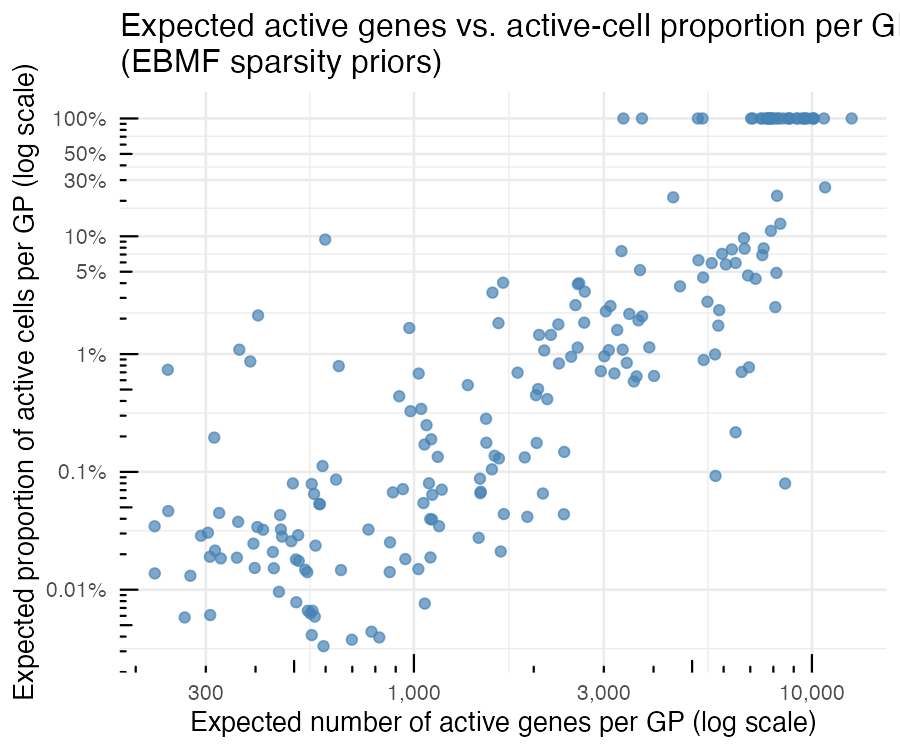
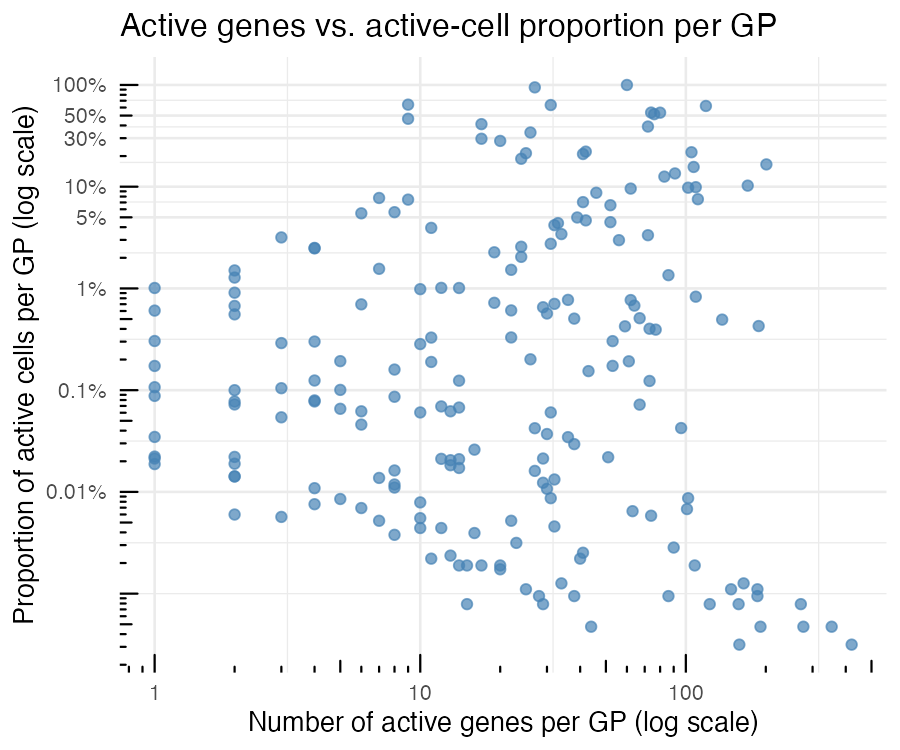
Fig S1E: use empirical active-gene/cell counts (match Figure 2)
Replace the EBMF sparsity-prior version of S1E with the same hard-threshold
definitions as Figure 2: number of active genes per GP (|per-GP-normalized
score| > 0.25) on x, proportion of active cells per GP (normalized loading >
0.1) on y, over non-thymocyte cells. Updates script/FigureS1.R, the caption,
the S1E asset/PDF, and rebuilds docs/FigureS1.html.

diff --git a/docs/FigureS1.html b/docs/FigureS1.html
@@ -384,7 +384,7 @@ aria-hidden="true"></span> </a>
 <div class="tab-content">
 <div id="summary" class="tab-pane fade in active">
 <p>
-<strong>Last updated:</strong> 2026-07-13
+<strong>Last updated:</strong> 2026-07-16
 </p>
 <p>
 <strong>Checks:</strong> <span
@@ -519,15 +519,15 @@ project makes it easier to run your code on other machines.</p>
 <div class="panel panel-default">
 <div class="panel-heading">
 <p class="panel-title">
-<a data-toggle="collapse" data-parent="#workflowr-checks" href="#strongRepositoryversionstrongahrefhttpsgithubcomAgueroZZimmgenTGPanalysistreecba8dd4fdccf9c48cd1ea609b18c9dc5d01e0c04targetblankcba8dd4a">
+<a data-toggle="collapse" data-parent="#workflowr-checks" href="#strongRepositoryversionstrongahrefhttpsgithubcomAgueroZZimmgenTGPanalysistreeb19749995d4ab13fc8dcd3502c93428b47802a9atargetblankb197499a">
 <span class="glyphicon glyphicon-ok text-success"
 aria-hidden="true"></span> <strong>Repository version:</strong>
-<a href="https://github.com/AgueroZZ/immgenT-GP-analysis/tree/cba8dd4fdccf9c48cd1ea609b18c9dc5d01e0c04" target="_blank">cba8dd4</a>
+<a href="https://github.com/AgueroZZ/immgenT-GP-analysis/tree/b19749995d4ab13fc8dcd3502c93428b47802a9a" target="_blank">b197499</a>
 </a>
 </p>
 </div>
 <div
[2 lines of base64/hex data omitted]
 class="panel-collapse collapse">
 <div class="panel-body">
 <p>
@@ -537,7 +537,7 @@ reproducibility.
 </p>
 <p>
 The results in this page were generated with repository version
-<a href="https://github.com/AgueroZZ/immgenT-GP-analysis/tree/cba8dd4fdccf9c48cd1ea609b18c9dc5d01e0c04" target="_blank">cba8dd4</a>.
+<a href="https://github.com/AgueroZZ/immgenT-GP-analysis/tree/b19749995d4ab13fc8dcd3502c93428b47802a9a" target="_blank">b197499</a>.
 See the <em>Past versions</em> tab to see a history of the changes made
 to the R Markdown and HTML files.
 </p>
@@ -559,6 +559,7 @@ Ignored files:
     Ignored:    analysis/assets/.DS_Store
     Ignored:    code/.DS_Store
     Ignored:    data
+    Ignored:    experiments/.DS_Store
     Ignored:    figures/.DS_Store
     Ignored:    figures/final-selected/.DS_Store
     Ignored:    figures/final-selected/bits/.DS_Store
@@ -578,28 +579,31 @@ Ignored files:
     Ignored:    figures/generated/Figure 7/
     Ignored:    figures/generated/Figure 8/
     Ignored:    figures/generated/Figure 9/
+    Ignored:    tmp/
 
 Untracked files:
-    Untracked:  analysis/assets/FigureS1/S1E.png
-    Untracked:  code/other/
-    Untracked:  experiments/
-    Untracked:  figures/generated/Figure S1/S1E.pdf
-    Untracked:  plan/
-    Untracked:  script/render_new_panels.R
+    Untracked:  code/other/topic_flashier_20250212.R
+    Untracked:  code/other/topic_wrapper_20250215_alldata_backfit.sh
+    Untracked:  experiments/active_metric_comparison/
+    Untracked:  experiments/figure6b_sparsity_ordered/
+    Untracked:  experiments/gene_umap_gp_space/
+    Untracked:  experiments/protein_threshold_gp_loading_diff/
+    Untracked:  experiments/surface_protein_activation_scatter/
+    Untracked:  log/2026-07-13-surface-protein-activation-scatter.md
+    Untracked:  log/2026-07-15-protein-threshold-gp-loading-diff-tables.md
+    Untracked:  plan/2026-07-13-active-cell-gene-metrics-exploration.md
+    Untracked:  plan/2026-07-13-surface-protein-activation-scatter.md
+    Untracked:  plan/2026-07-13_figure6b_triangular_order_plan.md
+    Untracked:  plan/2026-07-13_figure6b_wide_gp_columns_formal_plan.md
+    Untracked:  plan/2026-07-14_figure6b_heatmap_typography_plan.md
+    Untracked:  plan/2026-07-15-protein-threshold-gp-loading-diff-tables.md
     Untracked:  tables/
-    Untracked:  tmp/
 
 Unstaged changes:
-    Modified:   analysis/Figure1.Rmd
     Modified:   analysis/FigureS1.Rmd
     Modified:   analysis/Methods_FlashierFit.Rmd
-    Modified:   analysis/assets/Figure1/1E.png
-    Modified:   analysis/assets/Figure1/1F.png
-    Modified:   analysis/index.Rmd
-    Modified:   figures/generated/Figure 1/1E.pdf
-    Modified:   figures/generated/Figure 1/1F.pdf
-    Modified:   script/Figure1.R
-    Modified:   script/Figure3.R
+    Modified:   analysis/assets/FigureS1/S1E.png
+    Modified:   figures/generated/Figure S1/S1E.pdf
     Modified:   script/FigureS1.R
 
 </code></pre>
@@ -645,6 +649,42 @@ Message
 </tr>
 </thead>
 <tbody>
+<tr>
+<td>
+Rmd
+</td>
+<td>
+<a href="https://github.com/AgueroZZ/immgenT-GP-analysis/blob/c2b3360b38a0c1dcd0068b24e02311b9db0dbc34/analysis/FigureS1.Rmd" target="_blank">c2b3360</a>
+</td>
+<td>
+Ziang Zhang
+</td>
+<td>
[phone redacted]
+</td>
+<td>
+Use log-scale axes for Fig 1E/1F and add Fig S1E gene-vs-cell sparsity
+scatter
+</td>
+</tr>
+<tr>
+<td>
+html
+</td>
+<td>
+<a href="https://rawcdn.githack.com/AgueroZZ/immgenT-GP-analysis/c2b3360b38a0c1dcd0068b24e02311b9db0dbc34/docs/FigureS1.html" target="_blank">c2b3360</a>
+</td>
+<td>
+Ziang Zhang
+</td>
+<td>
[phone redacted]
+</td>
+<td>
+Use log-scale axes for Fig 1E/1F and add Fig S1E gene-vs-cell sparsity
+scatter
+</td>
+</tr>
 <tr>
 <td>
 html
@@ -844,11 +884,11 @@ itself is produced (a much heavier, cluster-scale computation).</p>
 #        vs. variance-of-per-IGT-mean-loading (y), spleen-standard subset.
 #   S1D  Heatmap of per-IGT mean loading for the 10 highest-variance GPs from
 #        S1C (IGTs with &gt;= 500 spleen-standard cells only).
-#   S1E  Scatter of the EBMF-learned expected NUMBER of active genes (x) vs.
-#        expected proportion of active cells (y) per GP -- from the (1 - pi0)
-#        sparsity parameter of each factor&#39;s point-mass prior (times the total
-#        gene count for the x-axis), not a hard threshold on the fitted
-#        matrices. One dot per GP.
+#   S1E  Scatter of the NUMBER of active genes (x) vs. proportion of active
+#        cells (y) per GP, using the same hard-threshold definitions as Figure 2
+#        (|normalized score| &gt; 0.25 for genes; normalized loading &gt; 0.1 for
+#        cells), over non-thymocyte cells -- not the EBMF sparsity prior. One
+#        dot per GP.
 #
 # Source: S1A/S1B ported from Figure_Saturation.R; S1C/S1D from
 # Figure_batch.R (panels a/b only -- that script&#39;s `plot_gp_loading()`
@@ -1228,23 +1268,22 @@ loading).</p>
 <div id="figs1e" class="section level2">
 <h2>(E) Active-gene vs. active-cell proportion per GP</h2>
 <pre class="r"><code># ============================================================
-# S1E: EBMF sparsity scatter -- expected proportion of active genes (x)
-# vs. expected proportion of active cells (y) per GP, taken directly from
-# each factor&#39;s point-mass prior weight (p = 1 - pi0).
-# (Same quantities as Figure 1&#39;s scatter_e_active_cells_vs_genes panel,
-# re-drawn here in ggplot with log-log axes.)
+# S1E: active-gene vs active-cell scatter per GP, using the SAME hard-threshold
+# definitions as Figure 2 (per-GP-normalized): number of active genes = count of
+# genes with |score| &gt; 0.25 of the GP&#39;s max; proportion of active cells = fraction
+# of cells with loading &gt; 0.1 of the GP&#39;s max. Non-thymocyte cells, matching
+# Figure 2. (Replaces the earlier EBMF-sparsity-prior version.)
 # ============================================================
-load(paste0(data_path, &quot;flashier_snmf_fitted_prior.rda&quot;))
-n_genes  &lt;- nrow(readRDS(paste0(data_path, &quot;F_pm_filtered.rds&quot;)))  # total genes in the factorization
+non_thymo_s1e &lt;- seurat_meta_filtered$cellID[seurat_meta_filtered$annotation_level1 != &quot;thymocyte&quot;]
+L_s1e &lt;- L_pm_filtered[non_thymo_s1e, ]
+L_norm_s1e &lt;- L_s1e / matrix(apply(L_s1e, 2, max), nrow = nrow(L_s1e), ncol = ncol(L_s1e), byrow = TRUE)
+prop_cells &lt;- colSums(L_norm_s1e &gt; 0.1) / nrow(L_norm_s1e)   # proportion of active cells per GP
 
-n_gp     &lt;- length(flashier_snmf_fitted_prior$L_ghat)
-l_pi_vec &lt;- sapply(seq_len(n_gp), function(i) flashier_snmf_fitted_prior$L_ghat[[i]]$pi[1])
-f_pi_vec &lt;- sapply(seq_len(n_gp), function(i) flashier_snmf_fitted_prior$F_ghat[[i]]$pi[1])
-p_cells     &lt;- 1 - l_pi_vec               # expected proportion of active cells per GP
-n_genes_act &lt;- (1 - f_pi_vec) * n_genes   # expected NUMBER of active genes per GP
+F_s1e &lt;- readRDS(paste0(data_path, &quot;F_pm_filtered.rds&quot;))
+F_norm_s1e &lt;- F_s1e / matrix(apply(F_s1e, 2, function(x) max(abs(x))), nrow = nrow(F_s1e), ncol = ncol(F_s1e), byrow = TRUE)
+n_genes_act &lt;- colSums(abs(F_norm_s1e) &gt; 0.25)               # number of active genes per GP
 
-scatter_df_s1e &lt;- data.frame(n_genes = n_genes_act, prop_cells = p_cells)
-
+scatter_df_s1e &lt;- data.frame(n_genes = n_genes_act, prop_cells = prop_cells)
 pct_breaks &lt;- c(0.0001, 0.001, 0.01, 0.05, 0.1, 0.3, 0.5, 1)
 p_S1E &lt;- ggplot(scatter_df_s1e, aes(x = n_genes, y = prop_cells)) +
   geom_point(size = 2, alpha = 0.7, color = &quot;steelblue&quot;) +
@@ -1252,22 +1291,58 @@ p_S1E &lt;- ggplot(scatter_df_s1e, aes(x = n_genes, y = prop_cells)) +
   scale_y_log10(breaks = pct_breaks, labels = function(x) paste0(x * 100, &quot;%&quot;)) +
   annotation_logticks(sides = &quot;bl&quot;) +
   labs(
-    x = &quot;Expected number of active genes per GP (log scale)&quot;,
-    y = &quot;Expected proportion of active cells per GP (log scale)&quot;,
-    title = &quot;Expected active genes vs. active-cell proportion per GP\n(EBMF sparsity priors)&quot;
+    x = &quot;Number of active genes per GP (log scale)&quot;,
+    y = &quot;Proportion of active cells per GP (log scale)&quot;,
+    title = &quot;Active genes vs. active-cell proportion per GP&quot;
   ) +
   theme_minimal(base_size = 13)
 ggsave(paste0(figure_path, &quot;S1E.pdf&quot;), plot = p_S1E, width = 6, height = 5, dpi = 300)</code></pre>
 <p><img src="assets/FigureS1/S1E.png" width="60%" style="display: block; margin: auto;" /></p>
+<p>
+<button type="button" class="btn btn-default btn-xs btn-workflowr btn-workflowr-fig" data-toggle="collapse" data-target="#fig-S1E">
+Past versions of S1E.png
+</button>
+</p>
+<div id="fig-S1E" class="collapse">
+<div class="table-responsive">
+<table class="table table-condensed table-hover">
+<thead>
+<tr>
+<th>
+Version
+</th>
+<th>
+Author
+</th>
+<th>
+Date
+</th>
+</tr>
+</thead>
+<tbody>
+<tr>
+<td>
+<a href="https://github.com/AgueroZZ/immgenT-GP-analysis/blob/c2b3360b38a0c1dcd0068b24e02311b9db0dbc34/docs/assets/FigureS1/S1E.png" target="_blank">c2b3360</a>
+</td>
+<td>
+Ziang Zhang
+</td>
+<td>
[phone redacted]
+</td>
+</tr>
+</tbody>
+</table>
+</div>
+</div>
 <div class="figcaption">
-<p><strong>Fig. S1E.</strong> For each GP, the expected number of active
-genes (x-axis) versus the expected proportion of active cells (y-axis),
-taken directly from the EBMF-learned point-mass prior of each factor
-(the mixture weight on the non-zero component, <code>1 - pi0</code>,
-with the gene x-axis rescaled to a count by the total number of genes)
-rather than from a hard threshold on the fitted matrices. Both axes on
-log scale; each dot is one of the 200 GPs. GPs that are active in more
-genes tend also to be active in more cells.</p>
+<p><strong>Fig. S1E.</strong> For each GP, the number of active genes
+(x-axis) versus the proportion of active cells (y-axis), using the same
+hard-threshold definitions as Figure 2: a gene is active in a GP if its
+per-GP-normalized score exceeds 0.25 in absolute value, and a cell is
+active if its per-GP-normalized loading exceeds 0.1; computed over
+non-thymocyte cells. Both axes on log scale; each dot is one of the 200
+GPs.</p>
 </div>
 <br>
 <p>